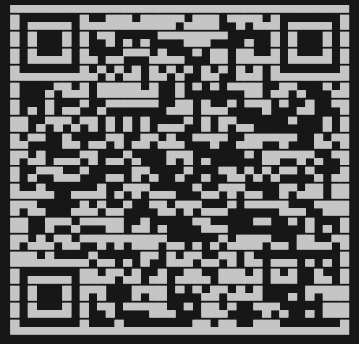
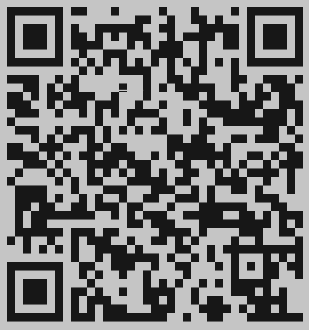
chore: release version 1.0.1 on android

diff --git a/android/app/src/main/java/com/jlovera3/lastminute/MainActivity.kt b/android/app/src/main/java/com/jlovera3/lastminute/MainActivity.kt
@@ -1,4 +1,4 @@
-package com.anonymous.lastminute
+package com.jlovera3.lastminute
 import expo.modules.splashscreen.SplashScreenManager
 
 import android.os.Build

diff --git a/android/app/src/main/java/com/jlovera3/lastminute/MainApplication.kt b/android/app/src/main/java/com/jlovera3/lastminute/MainApplication.kt
@@ -1,4 +1,4 @@
-package com.anonymous.lastminute
+package com.jlovera3.lastminute
 
 import android.app.Application
 import android.content.res.Configuration

diff --git a/README.md b/README.md
@@ -169,11 +169,16 @@ Check for dependency issues:
 ### Download Android Build from App Center
 
 You can download the latest Android build from App Center using the following link:
-[App Center Download Link](https://appcenter.ms/apps/YOUR_APP_ID/distribute/releases)
+[App Center Public Download Link](https://install.appcenter.ms/users/jlovera3/apps/last-minute-android/distribution_groups/public/releases/2)
+
+### Download Android Build from EAS
+
+🤖 Android app:
+https://expo.dev/artifacts/eas/oBjeWRPMQyH5faXkMTdEhy.aab
 
 ### 📸 Open this link on your Android devices (or scan the QR code) to install the app:
 
-🔗 https://expo.dev/accounts/jlovera3/projects/last-minute/builds/cf6cc608-2a7b-4076-83a6-4e8832d5f80d
+🔗 https://expo.dev/accounts/jlovera3/projects/last-minute/builds/fda940d8-6d88-401b-b073-46628065ea36
 ![QR Code](src/assets/images/qr-code.png)
 
 ## ❗ Notes
